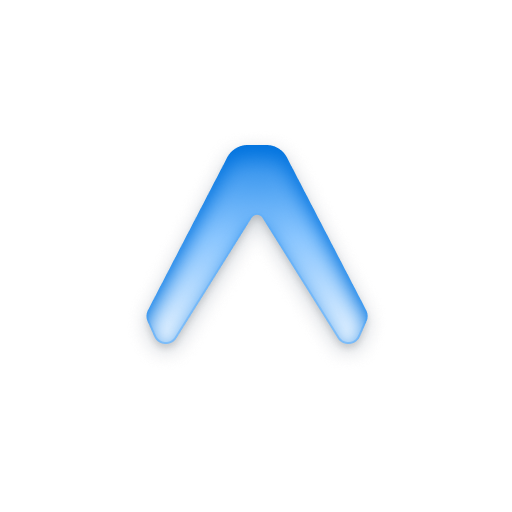
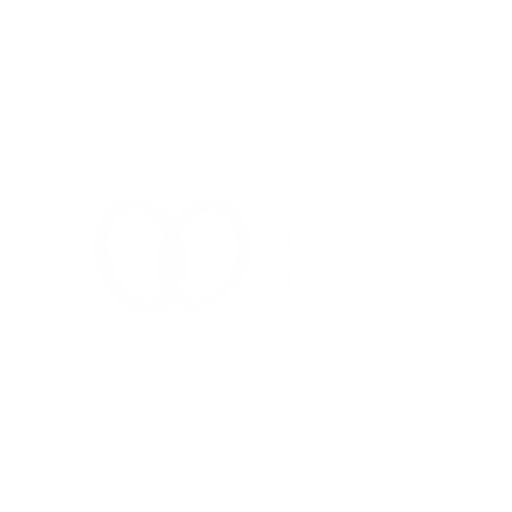
feat: aplicar identidade Elo na abertura

Changed region(s): [[0.2812, 0.2812, 0.7188, 0.6875]]

diff --git a/app/src/components/tela-abertura/index.tsx b/app/src/components/tela-abertura/index.tsx
@@ -1,0 +1,32 @@
+// Mostra a identidade do Elo enquanto o AuthContext restaura a sessão salva.
+import { useEffect, useRef } from 'react';
+import { ActivityIndicator, Animated, Image, StyleSheet, View } from 'react-native';
+import { COLORS } from '../../constants/cores';
+
+const LOGO = require('../../../assets/images/elo-logo-branca.png');
+
+export function TelaAbertura() {
+    const fade = useRef(new Animated.Value(0)).current;
+    const scale = useRef(new Animated.Value(0.94)).current;
+
+    useEffect(() => {
+        Animated.parallel([
+            Animated.timing(fade, { toValue: 1, duration: 550, useNativeDriver: true }),
+            Animated.spring(scale, { toValue: 1, useNativeDriver: true, tension: 55, friction: 7 }),
+        ]).start();
+    }, [fade, scale]);
+
+    return (
+        <View style={styles.container}>
+            <Animated.View style={{ opacity: fade, transform: [{ scale }] }}>
+                <Image source={LOGO} resizeMode="contain" style={styles.logo} accessibilityLabel="Elo" />
+            </Animated.View>
+            <ActivityIndicator color={COLORS.card} size="small" />
+        </View>
+    );
+}
+
+const styles = StyleSheet.create({
+    container: { flex: 1, alignItems: 'center', justifyContent: 'center', gap: 28, backgroundColor: COLORS.primary },
+    logo: { width: 200, height: 100 },
+});

diff --git a/app/src/app/_layout.tsx b/app/src/app/_layout.tsx
@@ -1,10 +1,26 @@
-import { AuthProvider } from "@/src/context/AuthContext";
+import { AuthProvider, useAuth } from "@/src/context/AuthContext";
 import { Slot } from "expo-router";
+import { useEffect } from "react";
+import { TelaAbertura } from "@/src/components/tela-abertura";
+import * as SplashScreen from "expo-splash-screen";
+import { StatusBar } from "expo-status-bar";
+
+void SplashScreen.preventAutoHideAsync();
+
+function AppContent() {
+    const { isLoading } = useAuth();
+    useEffect(() => {
+        if (!isLoading) void SplashScreen.hideAsync();
+    }, [isLoading]);
+
+    if (isLoading) return <TelaAbertura />;
+    return <><StatusBar style="light" /><Slot /></>;
+}
 
 export default function RootLayout() {
     return (
         <AuthProvider>
-            <Slot />
+            <AppContent />
         </AuthProvider>
     );
 }
